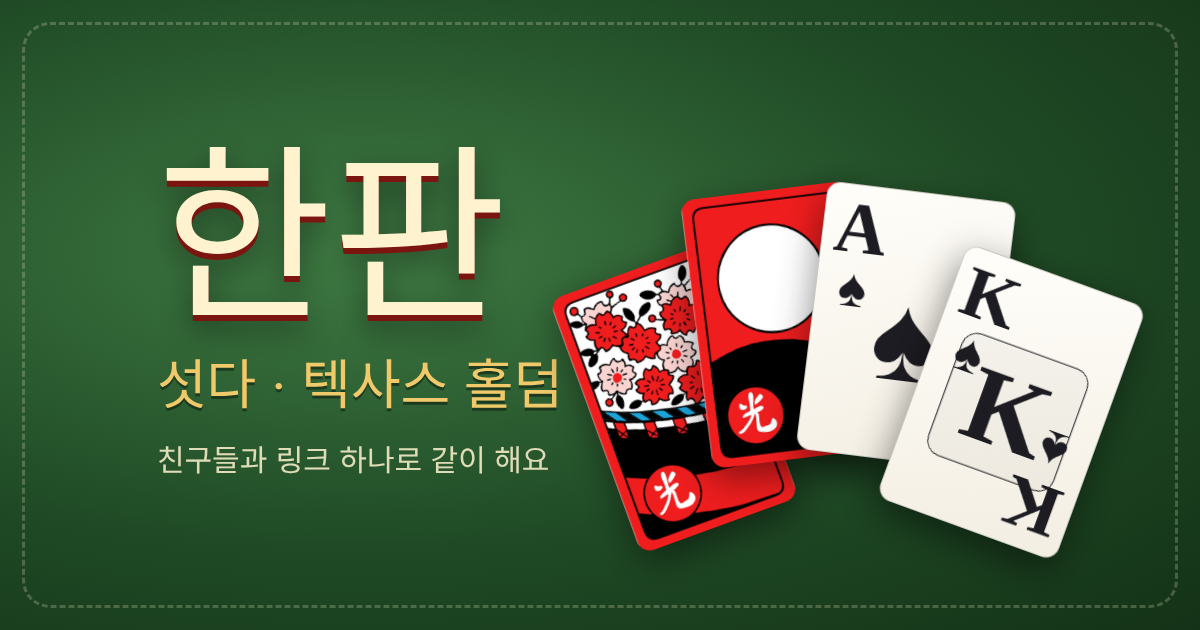
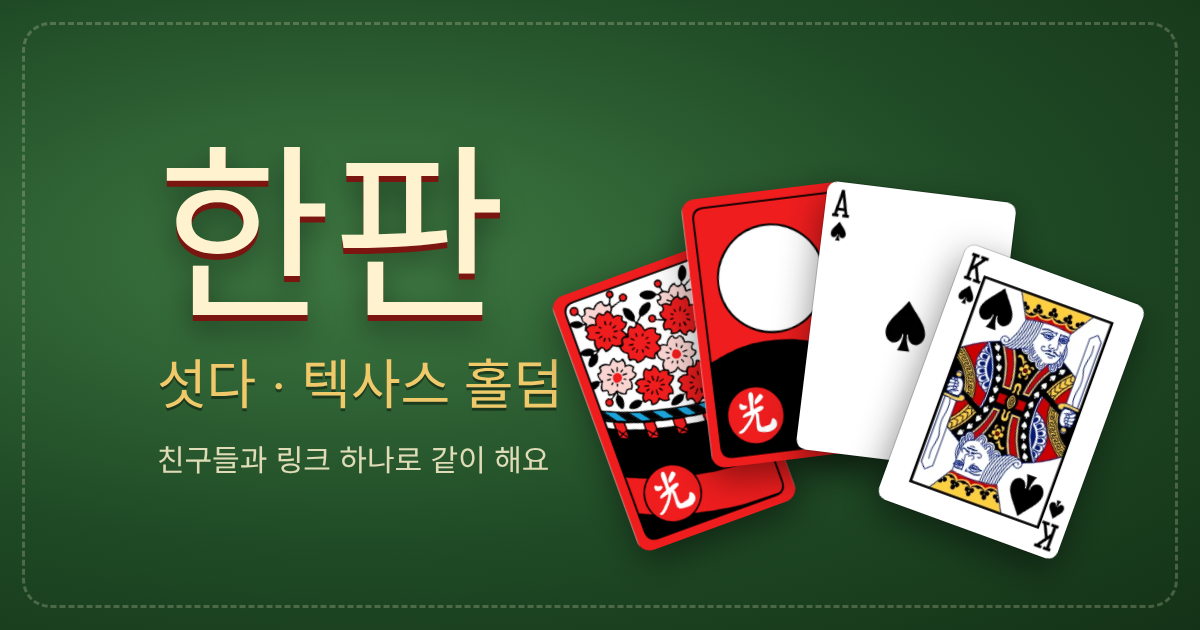
홀덤 카드를 퍼블릭 도메인 트럼프 그림으로 교체
- 9×6 시트 SVG에서 52장을 잘라 public/pcards/*.webp (240×336, 약 0.5MB)
- 공용 카드를 조금 키우고, 가로 폰에서는 판돈을 공용 카드 아래로
- 첫 화면 부채꼴·링크 미리보기 이미지도 새 카드로, 출처 표시 추가

Claude-Session: https://claude.ai/code/session_015gvwuvfV4LYhuDQgRpuVG1

Changed region(s): [[0.6475, 0.3921, 0.925, 0.9048], [0.6783, 0.3016, 0.74, 0.4222], [0.6783, 0.4524, 0.74, 0.4825]]

diff --git a/public/app.js b/public/app.js
@@ -334,9 +334,8 @@ function pcardHTML(c, o){
   const cls = 'hw pc' + (o.lg ? ' lg' : '') + (o.incoming ? ' incoming' : '') + (o.flip ? ' flip' : '') + (o.hi ? ' hi' : '') + (o.dim ? ' dim' : '');
   const attrs = (o.key ? ` data-ck="${o.key}"` : '') + (o.flip ? ` style="animation-delay:-${o.flipAgo || 0}ms"` : '');
   if (c == null) return `<div class="${cls}"${attrs}><div class="pcb"></div></div>`;
-  const r = Holdem.RANK_KO[Holdem.rankOf(c)], su = Holdem.SUITS[Holdem.suitOf(c)];
-  const red = Holdem.suitOf(c) === 1 || Holdem.suitOf(c) === 2, face = /^[JQK]$/.test(r);
-  return `<div class="${cls}" title="${Holdem.cardName(c)}"${attrs}><div class="pcf${red ? ' red' : ''}${face ? ' face' : ''}"><div class="crn"><b>${r}</b><i>${su}</i></div><div class="mid">${face ? r : su}</div><div class="crn br"><b>${r}</b><i>${su}</i></div></div></div>`;
+  // 카드 그림: public/pcards/As.webp 처럼 숫자+무늬 (퍼블릭 도메인 트럼프 그림을 잘라 쓴 것)
+  return `<div class="${cls}" title="${Holdem.cardName(c)}"${attrs}><img class="pcimg" src="/pcards/${Holdem.cardCode(c)}.webp" alt="${Holdem.cardName(c)}" draggable="false"></div>`;
 }
 function preflopName(cs){
   const [a, b] = cs.slice().sort((x, y) => Holdem.rankOf(y) - Holdem.rankOf(x));
@@ -488,7 +487,8 @@ function render(){
   }).join('') || `<div class="banner" style="position:absolute;left:50%;top:22%;transform:translateX(-50%);width:80%;text-align:center">아직 아무도 없어요.<br>[초대 링크 복사]로 친구를 부르세요.</div>`;
 
   // 베팅 칩 (자리마다 위치를 잡아둬야 칩이 날아갈 수 있다)
-  const betSpots = others.map((p, i) => ({ id: p.id, x: 50 + (pos[i].x - 50) * .62, y: 49 + (pos[i].y - 49) * .62 }));
+  // 홀덤은 가운데에 공용 카드가 있어서 위쪽 좌석의 베팅 칩을 좌석 쪽으로 더 붙인다
+  const betSpots = others.map((p, i) => { const k = HD && pos[i].y < 30 ? .84 : .62; return { id: p.id, x: 50 + (pos[i].x - 50) * k, y: 49 + (pos[i].y - 49) * k }; });
   if (myId) betSpots.push({ id: myId, x: 50, y: 82 });
   $('#bets').innerHTML = betSpots.map(b => {
     const amt = h && ph === 'bet' && h.bet ? (h.bet[b.id] || 0) : 0;

diff --git a/public/index.html b/public/index.html
@@ -58,7 +58,7 @@
     </div>
   </div>
 
-  <p class="credit">화투 그림: <a href="https://commons.wikimedia.org/wiki/File:Hwatu_overview.svg" target="_blank" rel="noopener">Marcus Richert</a>, <a href="https://creativecommons.org/licenses/by-sa/4.0/" target="_blank" rel="noopener">CC BY-SA 4.0</a> (잘라서 크기 조정)</p>
+  <p class="credit">화투 그림: <a href="https://commons.wikimedia.org/wiki/File:Hwatu_overview.svg" target="_blank" rel="noopener">Marcus Richert</a>, <a href="https://creativecommons.org/licenses/by-sa/4.0/" target="_blank" rel="noopener">CC BY-SA 4.0</a> (잘라서 크기 조정) · 트럼프 그림: 퍼블릭 도메인</p>
 </section>
 
 <!-- 게임 -->
@@ -97,7 +97,7 @@
     <h4>기록 · 채팅</h4>
     <div id="log"></div>
     <div class="emotes" id="emotes"></div>
-    <p class="credit" style="padding:0 12px">화투 그림: <a href="https://commons.wikimedia.org/wiki/File:Hwatu_overview.svg" target="_blank" rel="noopener">Marcus Richert</a>, <a href="https://creativecommons.org/licenses/by-sa/4.0/" target="_blank" rel="noopener">CC BY-SA 4.0</a> (잘라서 크기 조정)</p>
+    <p class="credit" style="padding:0 12px">화투 그림: <a href="https://commons.wikimedia.org/wiki/File:Hwatu_overview.svg" target="_blank" rel="noopener">Marcus Richert</a>, <a href="https://creativecommons.org/licenses/by-sa/4.0/" target="_blank" rel="noopener">CC BY-SA 4.0</a> (잘라서 크기 조정) · 트럼프 그림: 퍼블릭 도메인</p>
     <form id="chatForm"><input id="chatIn" class="inp" maxlength="80" placeholder="채팅" autocomplete="off"><button class="btn">전송</button></form>
   </aside>
 </section>

diff --git a/public/style.css b/public/style.css
@@ -465,3 +465,25 @@ body:has(#entry:not(.hidden)){
 #entry .card-box{box-shadow:0 2px 0 rgba(0,0,0,.25),0 14px 30px rgba(0,0,0,.35);border-color:rgba(0,0,0,.35)}
 #entry .fan .hw{filter:drop-shadow(0 4px 6px rgba(0,0,0,.5))}
 #entry .hero{margin-bottom:22px}
+
+.hw.pc .pcimg{display:block;width:100%;height:100%;object-fit:fill;border-radius:5%/3.6%;box-shadow:0 0 0 1px rgba(0,0,0,.16)}
+/* 새 카드 그림은 모서리 숫자가 작아서 공용 카드를 조금 크게 */
+.board .hw.pc,.board .slot{width:52px;height:73px}
+.board{min-height:73px}
+@media (orientation:landscape) and (max-height:520px){
+  .board .hw.pc,.board .slot{width:41px;height:57px}
+  .board{min-height:57px;gap:4px}
+}
+@media (orientation:landscape) and (max-height:520px){
+  /* 가로 폰: 판돈을 공용 카드 아래로 (옆 좌석과 안 겹치게) */
+  #center.hd{width:46%;top:57%;gap:0}
+  #center.hd .hdRow{flex-direction:column;gap:3px}
+  #center.hd .pot{flex-direction:row;align-items:center;gap:6px;min-width:0}
+  #center.hd .pot .stack{transform:scale(.7);transform-origin:right center;margin:-6px -4px}
+  #center.hd .pot small{display:none}
+}
+@media (orientation:landscape) and (max-height:520px){
+  #center.hd{top:30%;transform:translateX(-50%)}
+  #center.hd .seal{font-size:14px;padding:2px 10px;margin-top:2px}
+  #center.hd .banner .big{font-size:15px;margin-top:2px!important}
+}

diff --git a/server.js b/server.js
@@ -656,7 +656,7 @@ async function admin(t, body, u) {
 }
 
 // ───────── HTTP ─────────
-const MIME = { '.html': 'text/html; charset=utf-8', '.js': 'text/javascript; charset=utf-8', '.css': 'text/css; charset=utf-8', '.svg': 'image/svg+xml', '.png': 'image/png', '.ico': 'image/x-icon', '.webmanifest': 'application/manifest+json' };
+const MIME = { '.html': 'text/html; charset=utf-8', '.js': 'text/javascript; charset=utf-8', '.css': 'text/css; charset=utf-8', '.svg': 'image/svg+xml', '.png': 'image/png', '.ico': 'image/x-icon', '.webmanifest': 'application/manifest+json', '.webp': 'image/webp', '.txt': 'text/plain; charset=utf-8' };
 function serveStatic(req, res, urlPath) {
   const rel = urlPath === '/' ? '/index.html' : urlPath === '/admin' ? '/admin.html' : urlPath;
   const file = path.normalize(path.join(PUBLIC_DIR, rel));

diff --git a/README.md b/README.md
@@ -94,6 +94,8 @@ $env:DATABASE_URL="postgresql://..."; $env:ADMIN_USERS="donghun"; node server.js
 - `public/cards/` 폴더를 지우면 `public/cards.js`에서 직접 그린 SVG 카드로 자동으로 돌아가요.
 - 다른 이미지로 바꾸려면 같은 파일 이름(`01-1.png` ~ `10-2.png`)으로 넣으면 돼요. `-1`은 광·열끗, `-2`는 띠·피예요. 세로 5:8 비율을 권장해요.
 
+- **트럼프 카드 (홀덤)**: "Public domain complete playing card deck.svg" (퍼블릭 도메인)의 9×6 시트에서 52장을 잘라 `public/pcards/As.webp`처럼 240×336 WebP로 저장했어요 (조커 제외, 합계 약 0.5MB). 파일 이름은 숫자(2~9, T, J, Q, K, A) + 무늬(s·h·d·c). 뒷면은 CSS로 그려요. 자세한 건 `public/pcards/LICENSE.txt`.
+
 ## 봇 연습
 **봇이랑 연습**으로 만든 방은 연습방이에요.
 - **연습 칩 10,000**으로 해요. 따거나 잃어도 계정 칩은 그대로예요.
